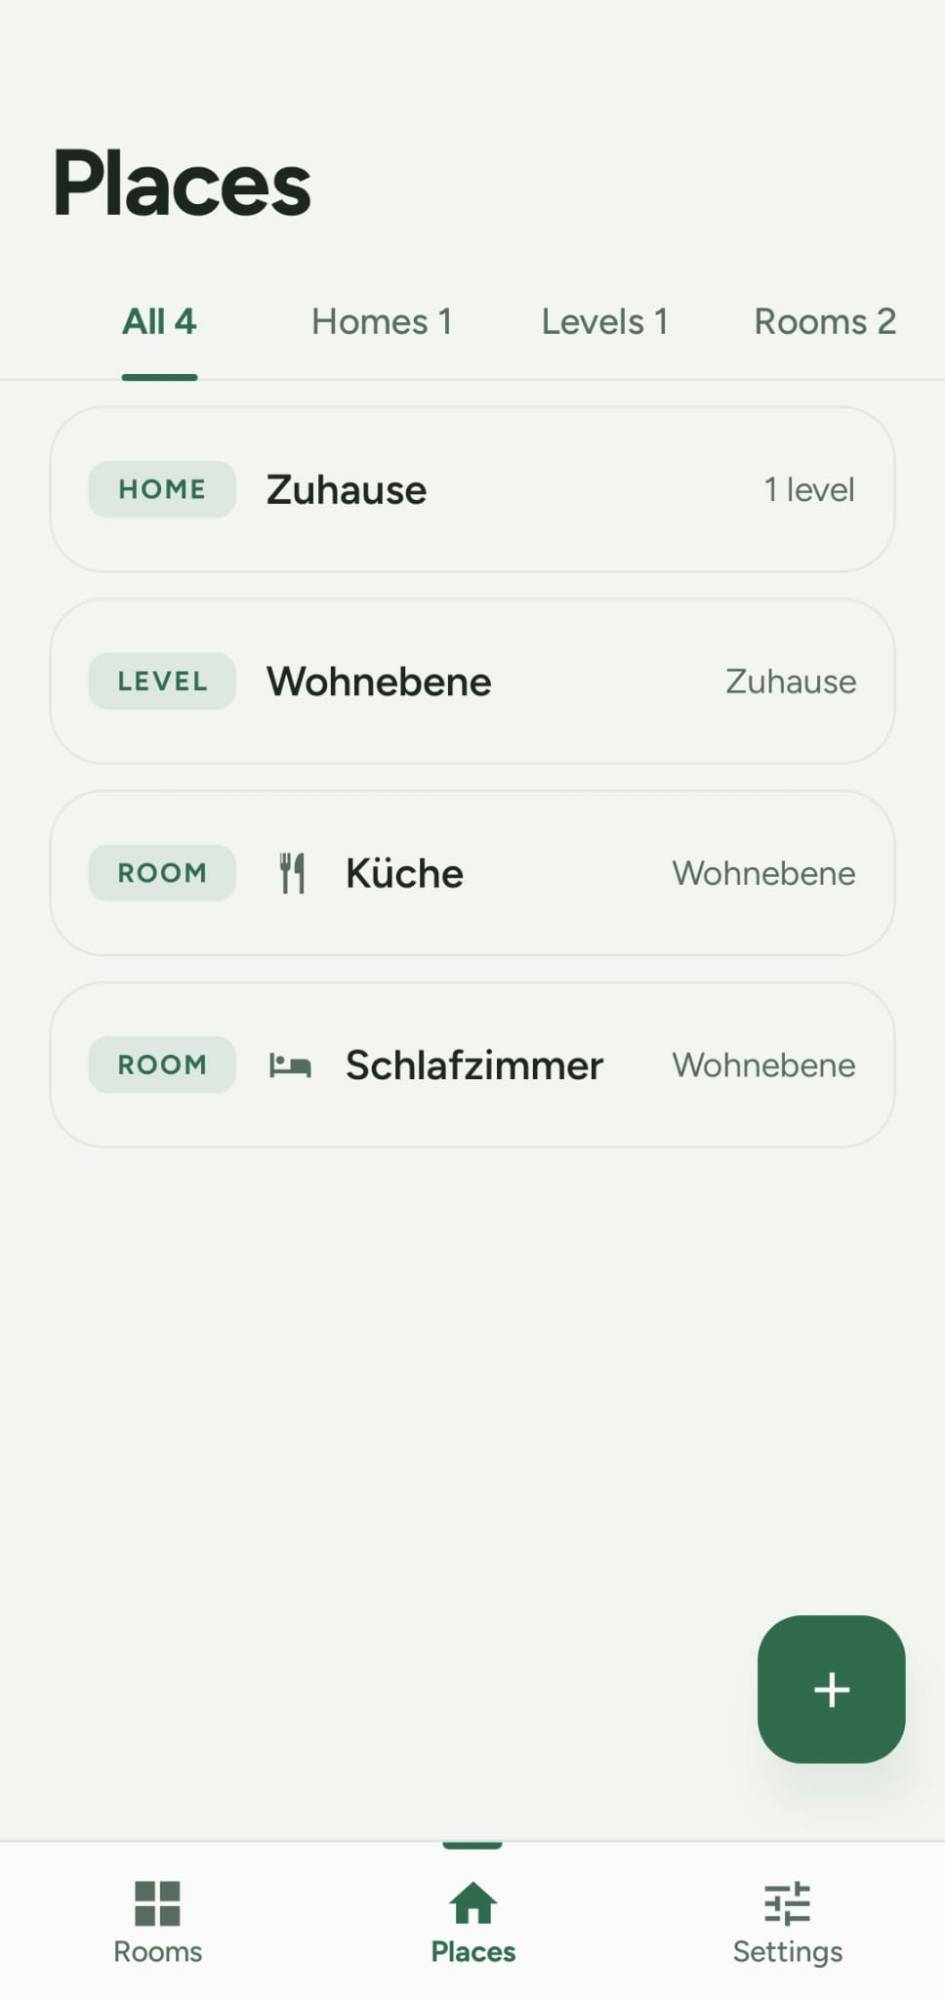
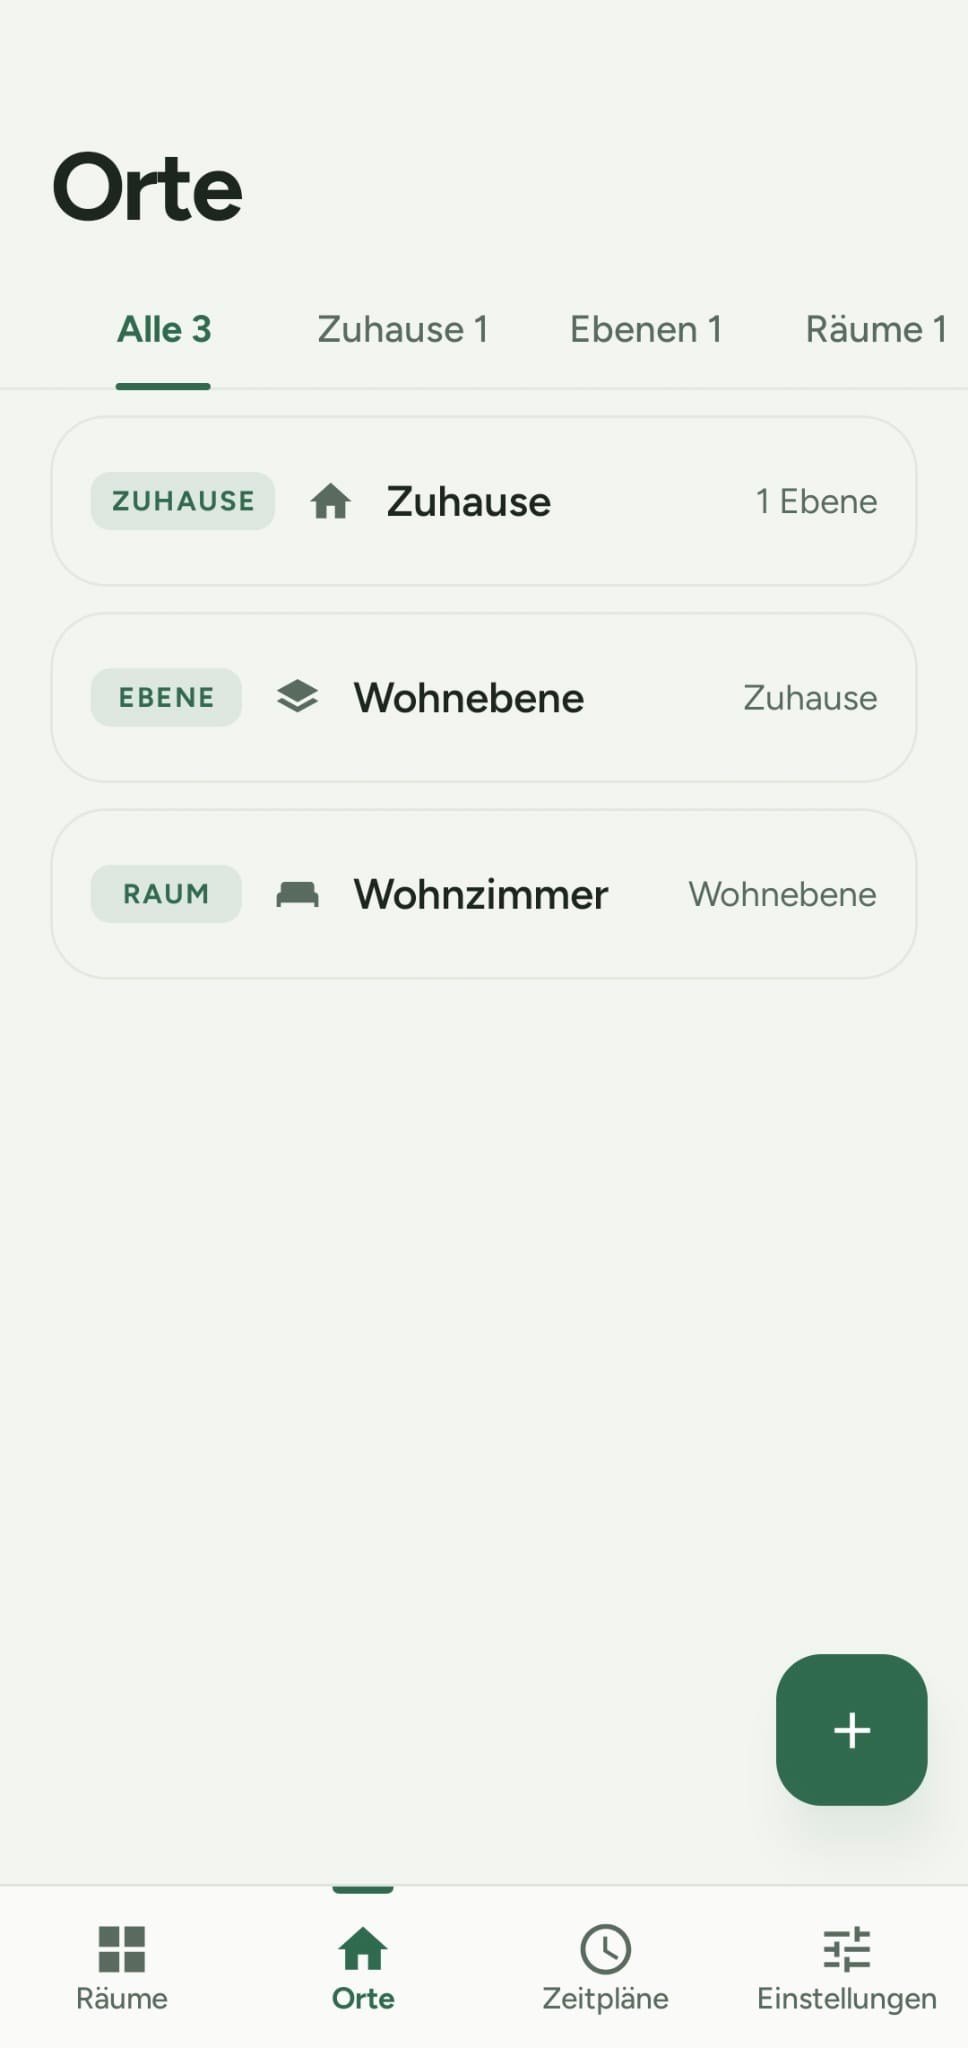
docs(play): add the German screenshots and feature graphic (#78)
* docs(play): add the German screenshots and feature graphic

* docs: use the German screenshots in the README and drop the English Play images

---------

diff --git a/docs/play-store-listing.md b/docs/play-store-listing.md
@@ -1,4 +1,4 @@
-# Google Play listing – HAAC (HA Android Client)
+# Google Play listing – HAAC (HA Android Client)
 
 Texts and answers for the Play Console (concept 14.4). Nothing in this file is a promise to Google that the maintainer has not checked: the answers in sections 4 and 5 describe what the app does today and must be re-checked against the Play Console wording before they are submitted. Review them again whenever the app starts to collect or send new data.
 
@@ -8,7 +8,7 @@ Texts and answers for the Play Console (concept 14.4). Nothing in this file is a
 | --- | --- |
 | App name (max. 30 characters) | `HAAC – HA Android Client` |
 | Package name | `com.stacknoise.haac` |
-| Default language | English (United States); add German (Germany) |
+| Default language | German (Germany), because the graphics exist only in German; add English (United States) with the English texts below, it then shows the German graphics until English ones are uploaded |
 | App or game | App |
 | Free or paid | Free |
 | Category | House & Home (alternative: Tools) |
@@ -175,11 +175,11 @@ Option 2 is the more cautious one and is the usual choice for apps that connect 
 | Asset | Requirement | State |
 | --- | --- | --- |
 | App icon | 512 × 512 PNG, up to 1 MB | Ready: `docs/icons/playstore-icon-512.png` |
-| Feature graphic | 1024 × 500 JPEG or 24-bit PNG | Ready: `docs/play/feature-graphic.png` (1024 × 500) |
-| Phone screenshots | 2 to 8; JPEG or 24-bit PNG; each side 320 to 3840 px; the longer side at most twice the shorter | Ready: five files in `docs/play/screenshots` (1100 × 2150, ratio 1.95, 24-bit PNG): rooms, places, add entities, edit layout, sign in. A **schedules** screenshot with neutral names is still missing (the file in `docs/screenshots` is `.webp` and shows real names) |
+| Phone screenshots | 2 to 8; JPEG or 24-bit PNG; each side 320 to 3840 px; the longer side at most twice the shorter | Ready, German: six files in `docs/play/de/screenshots` (1100 × 2150, 24-bit PNG): rooms, places, add entities, edit layout, schedules, sign in. There is no English set yet |
+| Feature graphic | 1024 × 500 JPEG or 24-bit PNG | Ready, German: `docs/play/de/feature-graphic.png` |
 | 7-inch / 10-inch tablet screenshots | Optional | Tablet and landscape are not designed (concept 15.4) |
 
-Screenshots to submit, in this order: Rooms, Places, Add entities, Edit layout, Schedules (new, with neutral names, to be taken on the phone), Sign in. Do not show real names or addresses. The files are generated from the screenshots in `docs/screenshots` (headline above the unchanged screen, 2:1 limit respected); the generated PNGs are the ones to upload.
+Screenshots to submit, in this order: Rooms, Places, Add entities, Edit layout, Schedules, Sign in. Do not show real names or addresses. The files are generated from phone screenshots taken in the German app (the IP address on the sign-in screen is pixelated) (headline above the unchanged screen, 2:1 limit respected); the generated PNGs are the ones to upload.
 
 ## 7. Release steps in the Play Console
 

diff --git a/README.md b/README.md
@@ -28,12 +28,11 @@ This limits what the app shows and controls. It is not a Home Assistant permissi
   <tr>
     <td align="center"><img src="docs/screenshots/add-entities.jpg" width="220" alt="Add entities"><br>Add entities</td>
     <td align="center"><img src="docs/screenshots/places.jpg" width="220" alt="Places"><br>Places</td>
-    <td align="center"><img src="docs/screenshots/places-speed-dial.jpg" width="220" alt="Places create menu"><br>Create menu</td>
-  </tr>
-  <tr>
-    <td align="center"><img src="docs/screenshots/schedule-detail.webp" width="220" alt="Schedule detail"><br>Schedule</td>
+    <td align="center"><img src="docs/screenshots/schedule-editor.jpg" width="220" alt="New schedule"><br>New schedule</td>
   </tr>
 </table>
+
+The screenshots show the German interface; the app follows the system language.
 
 ## Features
 
